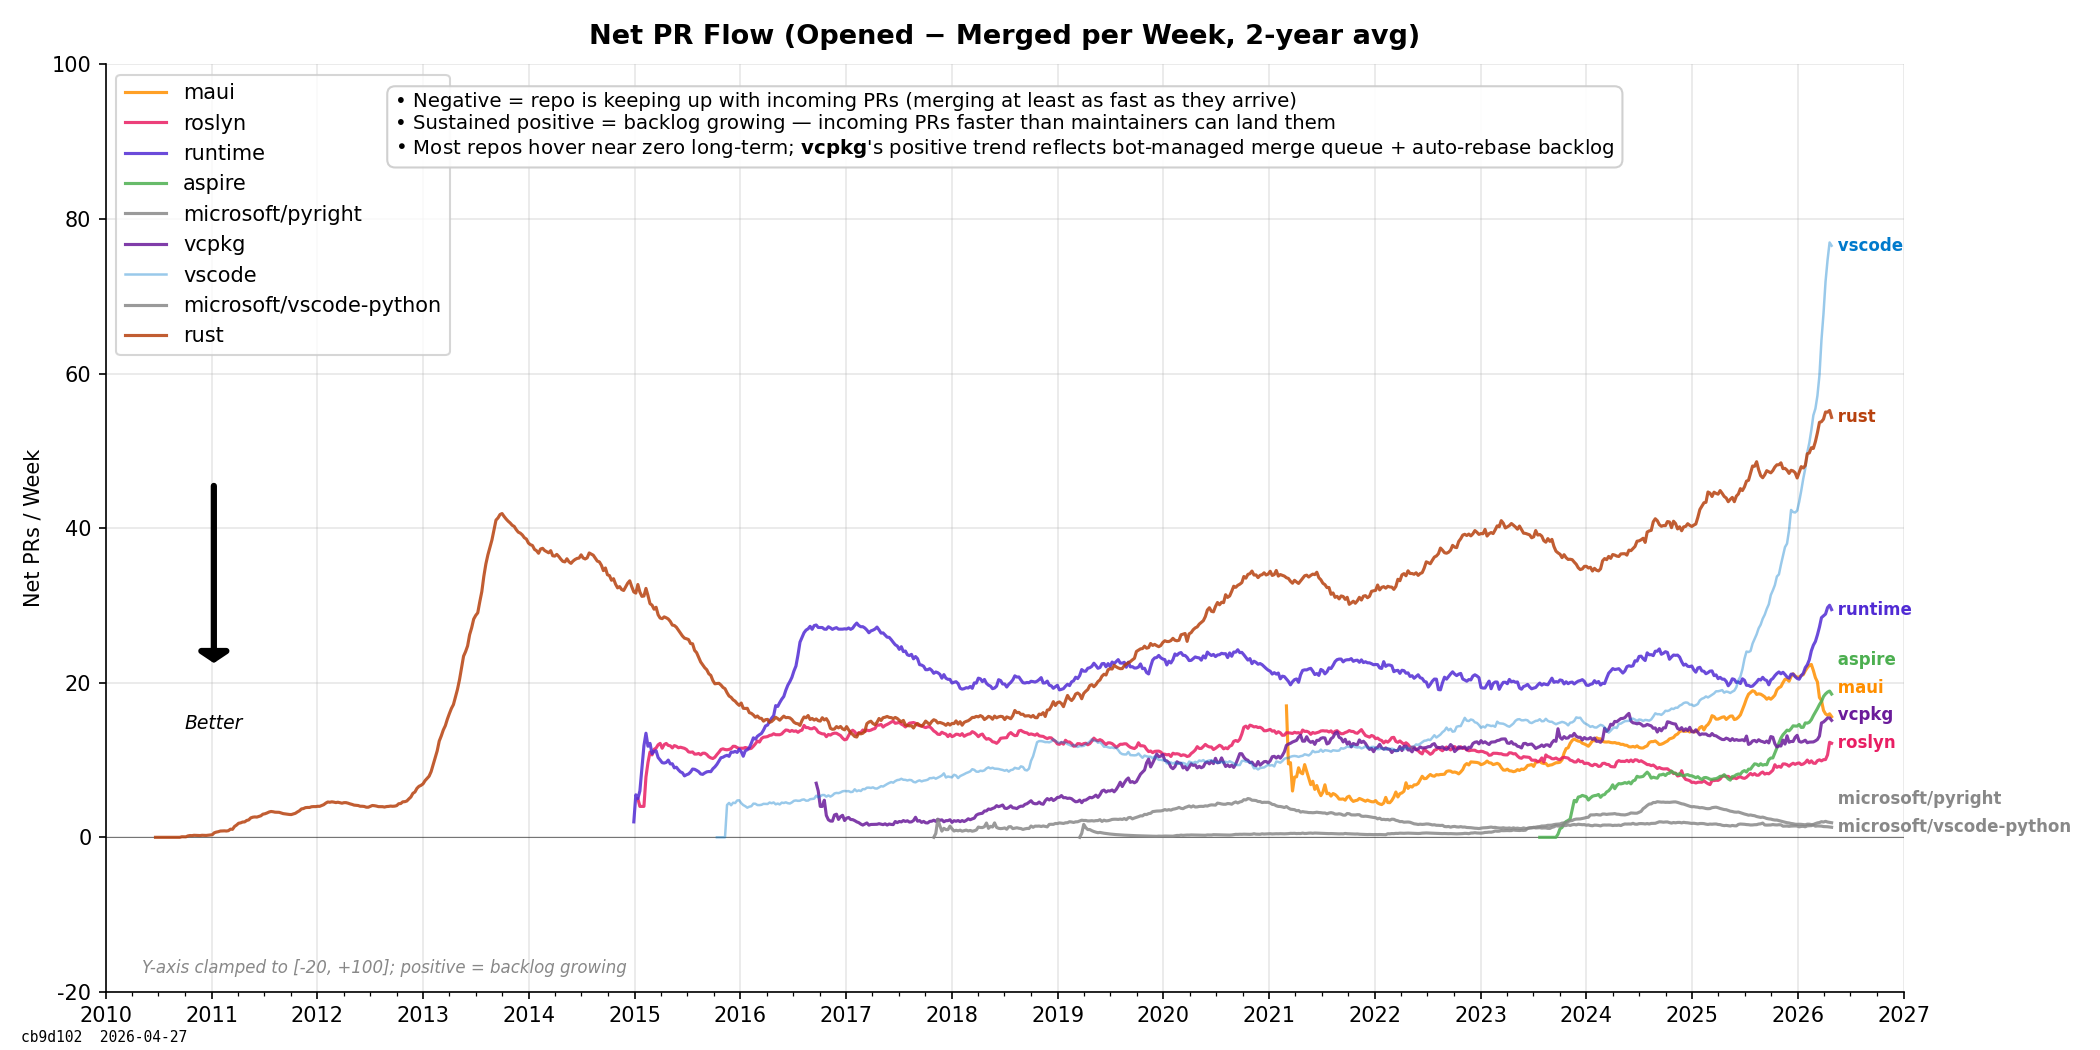
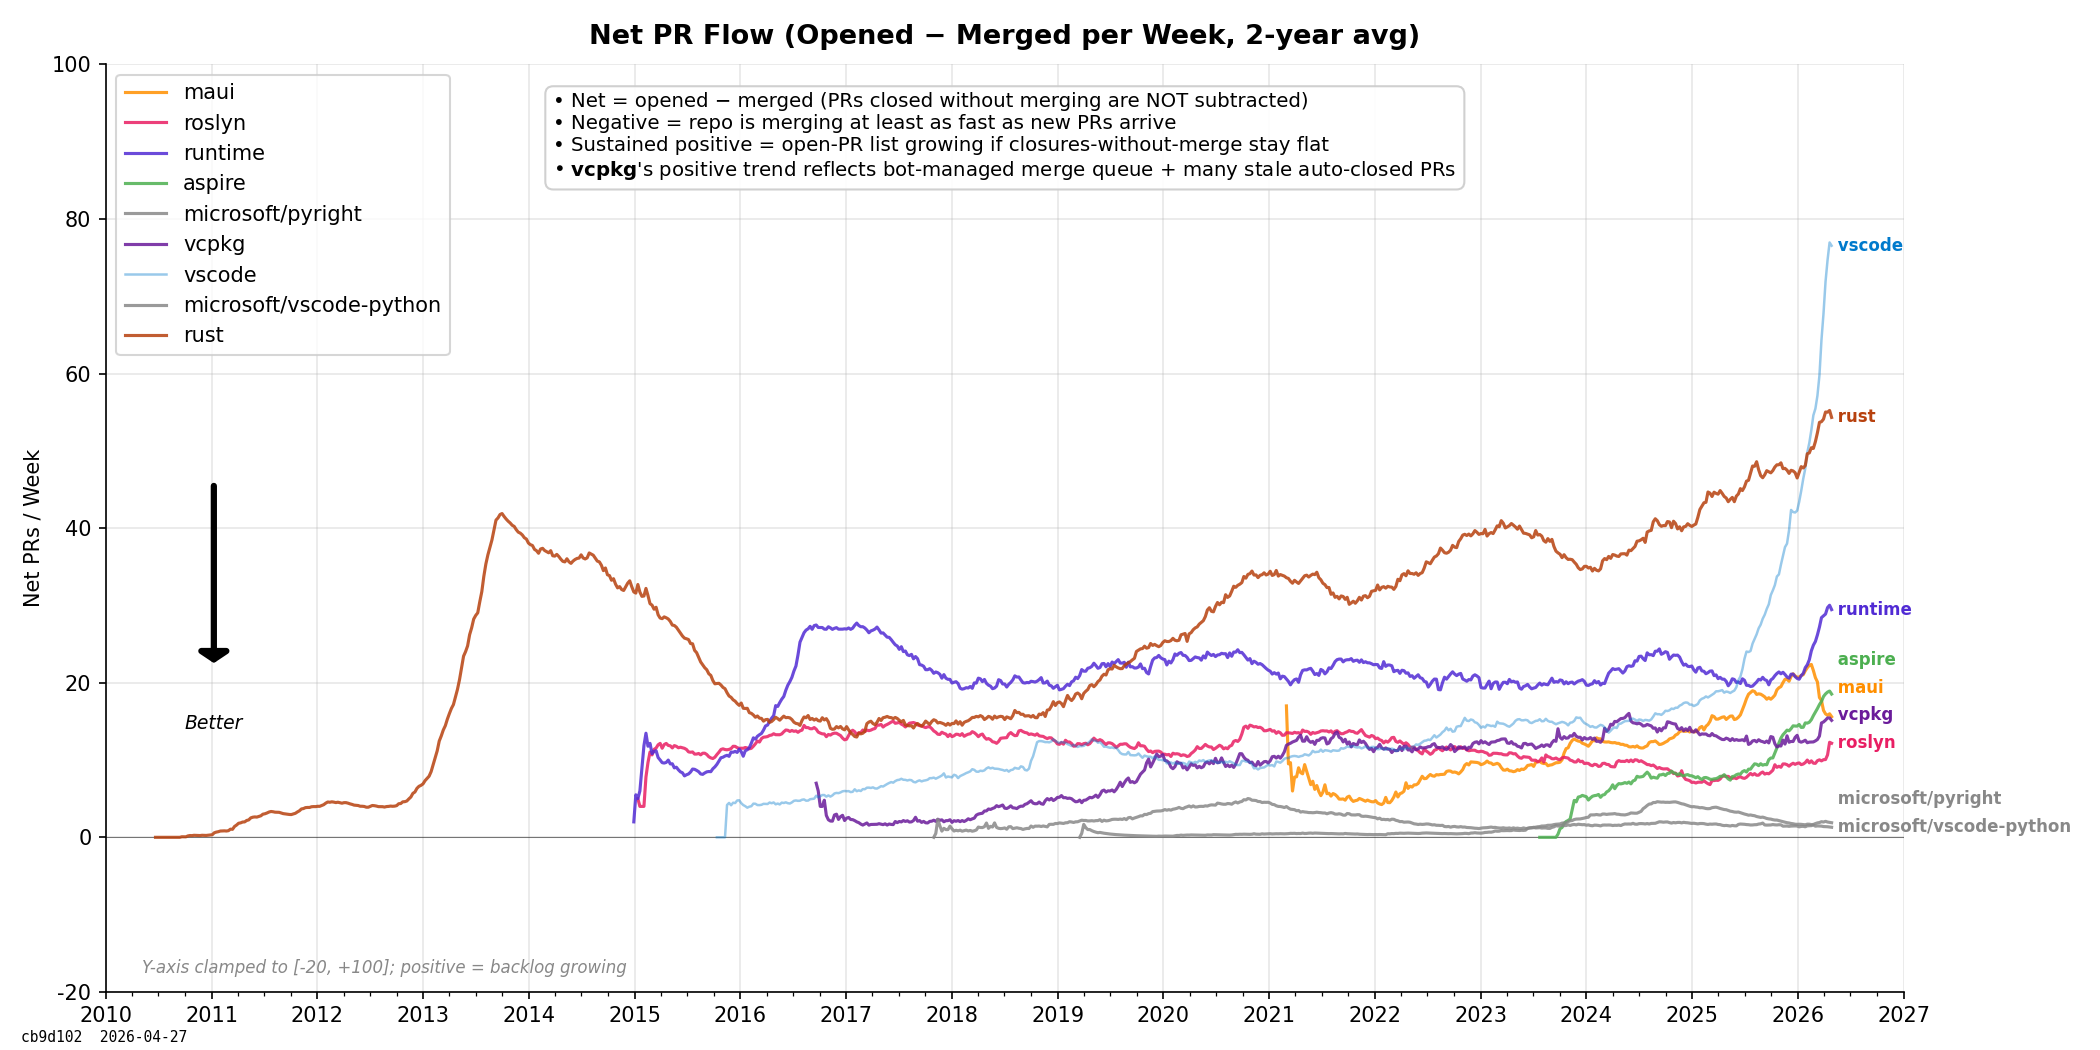
Address PR review iter 2: IndexError guard, clarify Net PR Flow insights
- chart_copilot_by_type_aggregate: guard against IndexError when all_weeks is empty
- chart_net_pr_flow_comparison: insight box now clarifies that PRs closed without merge are NOT subtracted (formula stays opened-merged per design)
- chart_pr_opened_vs_merged_zoomed: removed dead robust_ylim call

Changed region(s): [[0.1857, 0.0914, 0.7738, 0.1829]]

diff --git a/analyze.py b/analyze.py
@@ -854,6 +854,7 @@ def chart_net_pr_flow_comparison(all_series, output_dir):
     for repo, series in all_series.items():
         if not series or repo in GERRIT_REPOS:
             continue
+        # Opened − merged (per user request); closures-without-merge are NOT subtracted here
         net = [o - m for o, m in zip(series["pr_opened"], series["pr_merged"])]
         smoothed = smooth(net, window=104)
         alpha = 0.4 if repo == "microsoft/vscode" else 0.85
@@ -873,9 +874,10 @@ def chart_net_pr_flow_comparison(all_series, output_dir):
     label_line_ends(ax, line_ends)
     add_direction_arrow(ax, "down")
     add_insight_box(ax, [
-        "Negative = repo is keeping up with incoming PRs (merging at least as fast as they arrive)",
-        "Sustained positive = backlog growing — incoming PRs faster than maintainers can land them",
-        "Most repos hover near zero long-term; vcpkg's positive trend reflects bot-managed merge queue + auto-rebase backlog",
+        "Net = opened − merged (PRs closed without merging are NOT subtracted)",
+        "Negative = repo is merging at least as fast as new PRs arrive",
+        "Sustained positive = open-PR list growing if closures-without-merge stay flat",
+        "vcpkg's positive trend reflects bot-managed merge queue + many stale auto-closed PRs",
     ])
     _pad_date_xlim(fig)
     fig.tight_layout()
@@ -1981,7 +1983,7 @@ def chart_copilot_adoption(all_items, output_dir):
     all_weeks = [w for w in all_weeks if w >= coverage_cutoff]
     if common_end_week:
         all_weeks = [w for w in all_weeks if w <= common_end_week]
-    if (today - all_weeks[-1]).days < 7:
+    if all_weeks and (today - all_weeks[-1]).days < 7:
         all_weeks = all_weeks[:-1]
 
     if all_weeks:
@@ -3062,7 +3064,6 @@ def chart_pr_opened_vs_merged_zoomed(all_items, output_dir):
         plt.close(fig)
         return
 
-    ymin, ymax = robust_ylim(visible_data, percentile=0.99)
     ax.set_ylim(-100, 250)
     ax.yaxis.set_major_locator(MultipleLocator(50))
     ax.xaxis.set_major_locator(mdates.MonthLocator())
